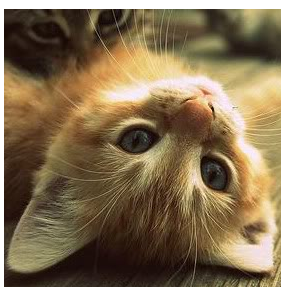
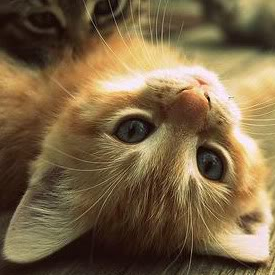
Crop image and change text color to p element

diff --git a/styles.css b/styles.css
@@ -1,3 +1,11 @@
 body {
 background-color: mistyrose;
 }
+h1 {
+    text-align: center;
+    color: palevioletred;
+}
+
+h2, p {
+color: palevioletred;
+}
